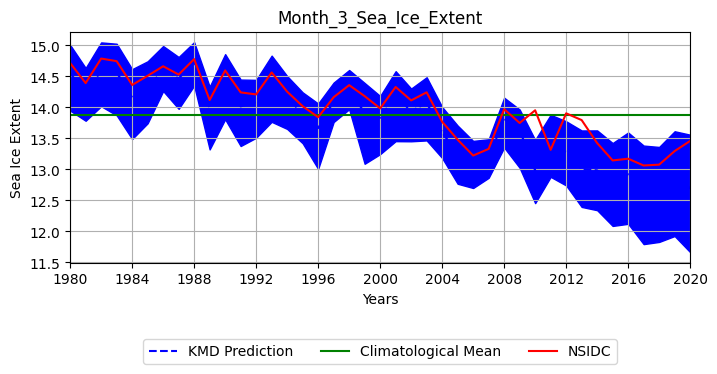
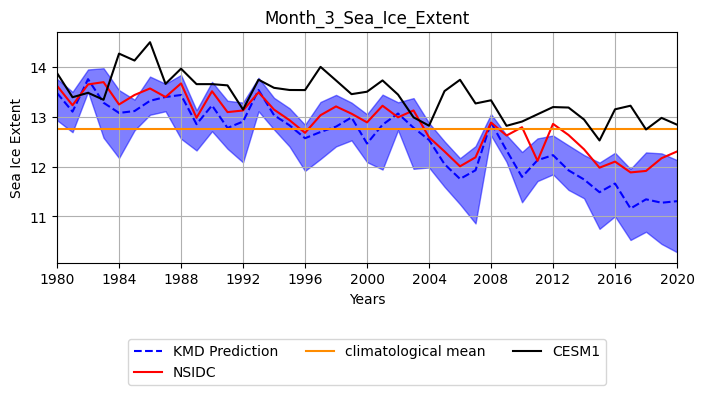
minor updates to documentation and removed hardcoded labels from robustness plot

Changed region(s): [[0.0, 0.0294, 1.0, 0.8235], [0.1875, 0.8529, 0.875, 0.9706]]

diff --git a/haiku/plotting/plotFunctions.py b/haiku/plotting/plotFunctions.py
@@ -786,86 +786,89 @@ def plotSnapshotsSideBySide(fig, data1, data2, title_str, colorbar_label, clims,
     #fig.supylabel('Latitude [deg]')
     return fig
 
-def plot_robustness_timeseries(comparison_data:dict(), prediction_data:ClimateData,output_directory,analysis_type:str="coverage",target_key="NSIDC"):
-    if analysis_type=="coverage":
-        ylabel="Sea Ice Extent"
-        ypred = prediction_data.return_coverage()
-        prediction_low_band, prediction_high_band = \
-            prediction_data.return_coverage(use_errors=True)
-        yclim = comparison_data["climatological mean"].return_coverage()
-        ynsidc = comparison_data["NSIDC"].return_coverage()
-    elif analysis_type=="spatial_correlation":
-        ylabel = "spatial correlation"
-        ypred = prediction_data.return_spatial_correlation(comparison_data[target_key].data)
-        prediction_low_band, prediction_high_band = \
-            prediction_data.return_spatial_correlation(comparison_data[target_key].data,use_errors=True)
-        yclim = comparison_data["climatological mean"].return_spatial_correlation(comparison_data[target_key].data)
-        ynsidc = comparison_data["NSIDC"].return_spatial_correlation(comparison_data[target_key].data)
-    elif analysis_type=="rmse":
-        ylabel="RMSE"
-        ypred = prediction_data.return_rmse(comparison_data[target_key].data)
-        prediction_low_band, prediction_high_band = \
-            prediction_data.return_rmse(comparison_data[target_key].data,use_errors=True)
-        yclim = comparison_data["climatological mean"].return_rmse(comparison_data[target_key].data)
-        ynsidc = comparison_data["NSIDC"].return_rmse(comparison_data[target_key].data)
+def plot_robustness_timeseries(comparison_data:dict(), prediction_data:ClimateData,output_directory,analysis_type:str="coverage",target_key="NSIDC",prediction_key="KMD Prediction"):
 
     xpred = prediction_data.date_int // 10000
-    xnsidc = comparison_data["NSIDC"].date_int // 10000
+    xnsidc = comparison_data[target_key].date_int // 10000
+    yvals = {}
+    
+    if analysis_type=="coverage":
+        ylabel="Sea Ice Extent"
+        yvals[prediction_key] = prediction_data.return_coverage()
+        prediction_low_band, prediction_high_band = \
+            prediction_data.return_coverage(use_errors=True)
+        for key in comparison_data.keys():
+            vals[key] = comparison_data[key].return_coverage()
+
+    elif analysis_type=="spatial_correlation":
+        ylabel = "spatial correlation"
+        yvals[prediction_key] = prediction_data.return_spatial_correlation(comparison_data[target_key].data)
+        prediction_low_band, prediction_high_band = \
+            prediction_data.return_spatial_correlation(comparison_data[target_key].data,use_errors=True)
+        for key in comparison_data.keys():
+            yvals[key] = comparison_data[key].return_spatial_correlation(comparison_data[target_key].data)
+
+    elif analysis_type=="rmse":
+        ylabel="RMSE"
+        yvals[prediction_key] = prediction_data.return_rmse(comparison_data[target_key].data)
+        prediction_low_band, prediction_high_band = \
+            prediction_data.return_rmse(comparison_data[target_key].data,use_errors=True)
+        for key in comparison_data.keys():
+            yvals[key] = comparison_data[key].return_rmse(comparison_data[target_key].data)
+
 
     for imonth in range(12):
         pred_filter = ((prediction_data.date_int // 100) %100) -1 == imonth
-        nsidc_filter =((comparison_data["NSIDC"].date_int // 100) %100) -1 == imonth
-        plotTimeSeries({"KMD Prediction":xpred[pred_filter],
-                        "Climatological Mean":xnsidc[nsidc_filter],
-                        "NSIDC":xnsidc[nsidc_filter]},
-                       {"KMD Prediction":ypred[pred_filter],
-                        "Climatological Mean":yclim[nsidc_filter],
-                        "NSIDC":ynsidc[nsidc_filter]},
-                       "NSIDC",
+        nsidc_filter =((comparison_data[target_key].date_int // 100) %100) -1 == imonth
+        tempx = {prediction_key:xpred[pred_filter]}
+        tempy = {prediction_key:yvals[prediction_key][pred_filter]}
+        plotTimeSeries(tempx,
+                       tempy,
+                       target_key,
                        ylabel,
                        output_directory,
                        color_dict={},
                        style_dict={},
-                       errors={"KMD Prediction":["2-sigma",
+                       errors={prediction_key:["2-sigma",
                                                  prediction_low_band[pred_filter],
                                                  prediction_high_band[pred_filter]]},
                        plot_title="Month_"+str(imonth+1)+"_"+ylabel.replace(" ","_"))
 
 
 
-def plot_timeseries(comparison_data:dict(), prediction_data:ClimateData,output_directory:str,analysis_type:str="coverage",target_key="NSIDC"):
+def plot_timeseries(comparison_data:dict(), prediction_data:ClimateData,output_directory:str,analysis_type:str="coverage",target_key="NSIDC",prediction_key="KMD Prediction"):
 
     data_dict={}
     xpred = prediction_data.date_int // 10000
-    xnsidc = comparison_data["NSIDC"].date_int // 10000
+    xnsidc = comparison_data[target_key].date_int // 10000
     yvals = {}
     if analysis_type=="coverage":
         ylabel="Sea Ice Extent"
-        yvals["KMD Prediction"] = prediction_data.return_coverage()
+        yvals[prediction_key] = prediction_data.return_coverage()
         for key in comparison_data.keys():
             yvals[key] = comparison_data[key].return_coverage()
     elif analysis_type=="spatial_correlation":
         ylabel = "spatial correlation"
-        yvals["KMD Prediction"] = prediction_data.return_spatial_correlation(comparison_data[target_key].data)
+        yvals[prediction_key] = prediction_data.return_spatial_correlation(comparison_data[target_key].data)
         for key in comparison_data.keys():
             yvals[key] = comparison_data[key].return_spatial_correlation(comparison_data[target_key].data)
     elif analysis_type=="rmse":
         ylabel="RMSE"
-        yvals["KMD Prediction"] = prediction_data.return_rmse(comparison_data[target_key].data)
+        yvals[prediction_key] = prediction_data.return_rmse(comparison_data[target_key].data)
         for key in comparison_data.keys():
             yvals[key]= comparison_data[key].return_rmse(comparison_data[target_key].data)
 
     for imonth in range(12):
         pred_filter = ((prediction_data.date_int // 100) %100) -1 == imonth
-        nsidc_filter =((comparison_data["NSIDC"].date_int // 100) %100) -1 == imonth
-        tempx = {"KMD Prediction":xpred[pred_filter]}
-        tempy = {"KMD Prediction":yvals["KMD Prediction"][pred_filter]}
+        nsidc_filter =((comparison_data[target_key].date_int // 100) %100) -1 == imonth
+        tempx = {prediction_key:xpred[pred_filter]}
+        tempy = {prediction_key:yvals[prediction_key][pred_filter]}
         for key in comparison_data.keys():
             tempx[key] = xnsidc[nsidc_filter]
             tempy[key] = yvals[key][pred_filter] 
         plotTimeSeries(tempx,
                        tempy,
-                       "NSIDC",
+                       target_key,
                        ylabel,
                        output_directory,
                        color_dict={},

diff --git a/docs/koopman.md b/docs/koopman.md
@@ -2,7 +2,7 @@
 
 The Hybrid AI Koopman-Climate Model (HKCM) aims to augment the ability of current climate models (CICE5 to start) to more accurately model real world measurements by training a Koopman model in series with the climate model to apply missing dynamics at each time step.  But from the programmatic level, we have two other components which should fall under this category as well, the Fast Koopman Proxy Model (FKPM) and our Analysis Toolkit.  These work together leveraging a Koopman proxy model of the full climate system that can be trained and run in minutes instead of days.  This enables our analysis toolkit and allows users to quickly test hypothesis and automatically determine uncertainty on forecasts as well as driving causal factors and potential interventions to avoid tipping points.
 
-Across both the HKCM and the FKPM, we will map from the inputs described in Section 3 into Koopman observables space and back.  We will also specify the mapping between model parameters (or Koopman observables) and variables of interest described in the same section.  By leveraging pregenerated data from the models of interest, we reduce the initial computational cost considerably, while hopefully maintaining sufficient diversity of model parameters to properly train the Koopman operators.  Once we’ve validated this approach, we will revisit running the full climate models with specific parameter values as necessary to explore potential tipping points and causal factors.
+Across both the HKCM and the FKPM, we map the inputs described in Section 3 into Koopman observables space and back.  We also specify the mapping between model parameters (or Koopman observables) and variables of interest described in the same section.  By leveraging pregenerated data from the models of interest, we reduce the initial computational cost considerably, while hopefully maintaining sufficient diversity of model parameters to properly train the Koopman operators.  Once we’ve validated this approach, we will revisit running the full climate models with specific parameter values as necessary to explore potential tipping points and causal factors.
 
 The FKPM and mapping to factors of interest are required for us to present an understandable result and allow for expert interaction through the Analysis Toolkit, which consists of a semantic graph of those factors, an explainer that shows pathways that drive specific factors (like rapid sea ice loss), and an identification of which variables will reach a tipping point (along with further statistics of when, how, and why).
 
@@ -46,7 +46,7 @@ We plan to train a Koopman operator-based model to learn the dynamics of the dif
 <center>
 <figure>
 <img src="../figs/diagrams/HKCM_diagram.png" alt="HKCM Diagram" style="width:90%">
-<figcaption align = "center" style="width:90%"><b>Figure 2:</b> Hybrid AI Koopman-Climate Model (HKCM)—The Koopman Operator will predict the dynamics of the system given climate model output for the current step and the estimate of observables from the previous one. HKCM leverages modeled physics in the climate model while accounting for un-modeled physics.</figcaption>
+<figcaption align = "center" style="width:90%"><b>Figure 2:</b> Hybrid AI Koopman-Climate Model (HKCM)—The Koopman Operator predicts the dynamics of the system given climate model output for the current step and the estimate of observables from the previous one. HKCM leverages modeled physics in the climate model while accounting for un-modeled physics.</figcaption>
 </figure>
 </center>
 &nbsp;  
@@ -65,7 +65,7 @@ A preliminary investigation (Figure 4) shows the eigenfunctions of the Mean, Ann
 
 <center>
 <figure>
-<img src="../figs/results/Koopman_missing_physics_modes.png" alt="FKPM difference example" style="width:30%">
+<img src="../figs/results/Koopman_missing_physics_modes.png" alt="FKPM difference example" style="width:90%">
 <figcaption align = "center" style="width:90%"><b>Figure 4:</b> The resultant modes from a preliminary FKPM to apply a correction to the CESM1 model. The Berents and Kara sea are the main region of discrepancy. We find a missing exponential component with a decay time of 20 years. </figcaption>
 </figure>
 </center>
@@ -75,16 +75,16 @@ This is a very preliminary result and is meant simply to be illustrative of how 
 
 
 ##Fast Koopman Proxy Model (FKPM)
-We will also train a full Koopman model to create a fast proxy model of the full climate simulation.  This will enable a suite of analytics that can extract causality and better characterize tipping points and their associated uncertainty that would take months or years to do with the current best climate models alone. This is shown below (Figure 3).
+We also train full Koopman models to create fast proxy models of the full climate simulation.  This enables a suite of analytics that can extract causality and better characterize tipping points and their associated uncertainty that would take months or years to do with the current best climate models alone. This is shown below (Figure 3).
 <center>
 <figure>
 <img src="../figs/diagrams/FKPM_diagram.png" alt="FKPM Diagram" style="width:90%">
-<figcaption align = "center" style="width:90%"><b>Figure 3:</b> Fast Koopman Proxy Model (FKPM)—The FKPM learns the full dynamics of the HKCM or stand-alone climate model, but is able to operate much faster than the either, enabling the analytic toolkit. Analysis of the eigenfunctions and eigenvalues will help identify tipping points and regions of interest for deeper analysis.</figcaption>
+<figcaption align = "center" style="width:90%"><b>Figure 3:</b> Fast Koopman Proxy Model (FKPM)—The FKPM learns the full dynamics of the HKCM or stand-alone climate model, but is able to operate much faster than the either, enabling the analytic toolkit. Analysis of the eigenfunctions and eigenvalues help identify tipping points and regions of interest for deeper analysis.</figcaption>
 </figure>
 </center>
 &nbsp;  
 
-Initially, we will train a FKPM using the climate model on its own so we can begin developing the Analysis Toolkit, but as the HKCM becomes more capable, we will train an improved FKPM that leverages it as well and compare the analytics for robustness.
+Initially, we train a FKPM using the climate model on its own so we can begin developing the Analysis Toolkit, but as the HKCM becomes more capable, we will train an improved FKPM that leverages it as well and compare the analytics for robustness.
 
 
 <sup>1</sup>Arbabi, H., & Mezic, I. (2017). Ergodic theory, dynamic mode decomposition, and computation of spectral properties of the Koopman operator. SIAM Journal on Applied Dynamical Systems, 16(4):2096–2126.

diff --git a/docs/data_models.md b/docs/data_models.md
@@ -1,13 +1,11 @@
 # Data and Climate models
 The HAIKU program will focus on analyzing decade-scale predictions of Arctic sea ice concentrations. 
-We plan to initially use the pre-generated data across a variety of CICE4 parameters to initially construct the HAIKU models, but expect to need to run the CICE4 model eventually before transitioning to the full CESM model. 
+We leverage the CESM1 simulation datasets for initial analysis and Koopman model training.
 We also plan to leverage real measurement data to train our Hybrid Koopman-Climate Model which will learn to model dynamics present in real data that is not present in the models and their associated pre-generated data. 
 
 To enable rapid early results and validate our approach, we begin with a stand-alone sea ice model: the Los Alamos sea ice model [CICE4](https://www.cesm.ucar.edu/models/cesm1.0/cice/) and associated [documentation](http://www.ccpo.odu.edu/~klinck/Reprints/PDF/cicedoc2015.pdf).
 
-At the midpoint of Phase 1, we plan to move to the full Community Earth System Model (CESM2) to better model the coupled climate variability. CESM2 integrates CICE5 along with atmosphere (CAM6), ocean (POP2), land (CLM5), and ice sheet (CISM2) models of the NCAR modeling framework.
-
-##Initial Climate Models and Datasets
+##Climate Models and Datasets
 
 The CICE5 model requires atmospheric data, including: monthly downward shortwave radiation data at the surface, precipitation, cloud fraction, and four times daily data of 2m air temperature, 2m specific humidity, 10m wind, and 10m air density. 
 Most of the atmospheric data will be derived from the ERA5 reanalysis accessible via the ECWMF data portal ([ERA5](https://www.ecmwf.int/en/forecasts/datasets/reanalysis-datasets/era5)).
@@ -18,7 +16,7 @@ In addition, the CICE5 model requires data for vertical heat transport from the 
 
 The first step is to confirm sensitivity observations concluded by the climatology community. 
 Before investigative sensitivity, we will first need to find a correspondence between model outputs and observational data for validation. Observational data for sea ice concentration can be obtained from the [National Snow and Ice Data Center](https://nsidc.org/data/NSIDC-0051/versions/1)  (NSIDC).
-We will need to work in a common projection and resolution to avoid interpolation.
+We need to make sure the simulation and observational data are in a common projection and resolution to avoid interpolation.
 
 
 ##Model Prediction - CESM Large Ensemble Project

diff --git a/docs/metrics.md b/docs/metrics.md
@@ -27,20 +27,19 @@ An example of this accuracy analysis in action can be seen on some preliminary r
 
 We plan to average over geographic and temporal step size to better quantify the utility of our models to the longer time scale climate trends as well as to mitigate the potential very small scale noise that the FKPM attempts to simulate.
 
-We plan for this metric to evolve as we continue evaluating the HAIKU system:
+This metric will evolve as we continue evaluating the HAIKU system:
 
    1. Aggregate spatially before computing the RMSE
    2. Compare accuracy of larger scale dynamics to higher resolution
    3. Aggregate temporally (or remove annual variation directly)
 
 
-Main goal is to assess decadal scale trends and tipping points, we don’t want model to focus on modeling annual variation when overall trend is more important
-Compute accuracy per variable/spatial/temporal grids
-Will enable Phase II ability to identify measurements to improve overall accuracy
+The main goal is to assess decadal scale trends and tipping points, we don’t want model to focus on modeling annual variation when overall trend is more important.
+Computing accuracy per variable/spatial/temporal grids will enable to identify measurements to improve overall accuracy via the Value of New Data Analysis.
 
 
 ##Robustness of HAIKU models
-FKPM models are trained on simulated or observational data, both of these sources have measurement uncertainty in the quantities we aim to model. By quantifying the impact variance on these inputs have in the predictions the koopman model is able to generate, we can define a bounds on the uncertainty of the FKPM predictions.
+FKPM models are trained on simulated or observational data, both of these sources have measurement uncertainty of the magnitudes we aim to model. By quantifying the impact variance on these inputs have in the predictions the koopman model is able to generate, we can define a bounds on the uncertainty of the FKPM predictions.
 Specifically, this is done by training multiple koopman models while varying the training inputs within the bounds of their uncertainty. The speed of the training of the Koopman models allows 10s of models to be trained to get a good estimate of the distribution of Koopman models over the parameters of interest.
 
 <center>

diff --git a/docs/software_framework.md b/docs/software_framework.md
@@ -1,9 +1,11 @@
 # Software Framework
 
-This is a summary of the structure of the python-based HAIKU software system currently in development.
-As the system is developed, a beta version will be available on our public [github page](https://github.com/BAE-Systems-HAIKU/HAIKU).
-This page will include steps required to download and preprocess training data,
+This is a summary of the originally planned structure of the python-based HAIKU software system currently in development.
+A beta version is available on our public [github page](https://github.com/BAE-Systems-HAIKU/HAIKU).
+[This page](../Tutorials/configure_haiku/) includes steps required to download and preprocess training data, 
 and to get HAIKU operational on your system.
+
+The following is somewhat out-of-date, but provides a general description of the overall HAIKU architecture.
 
  \* **_classes_** and _member functions_ are denoted as such section.
 
@@ -84,6 +86,8 @@ This **_KoopmanModel_** can then be used directly to provide a correction factor
 
 
 ###Causal Model
+<i>The Causal Model code is not yet publicly available.</i>
+
 
 This class requires **_ClimateData_** as well as its own member **_parameters_** (which helps define variable transformation from more fine-grained to user oriented causal variables).
 The **_CausalModel_**._transform_data(**_ClimateData_**) function generates a user oriented **_ClimateData_** time-series with many fewer variables.
@@ -95,7 +99,7 @@ Other analytics are still being considered that may do things like allow a user 
 
 
 ##Analytics Toolkit
-
+<i>The Analytics toolkit currently includes only a script to generate the robustness analysis and several analytics plots as described in the [tutorial](../Tutorials/running_the_code/).</i>
 The initial implementation of the **_analysis_toolkit_** hinges around the **_CausalModel_** class. The **_analysis_toolkit_** class is envisioned to hold many various analysis method, but not to hold any objects itself.
 
 <figure>
